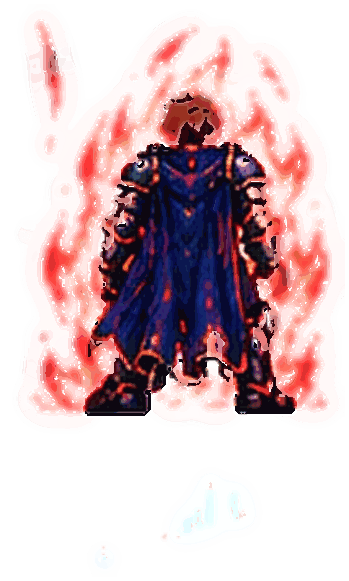
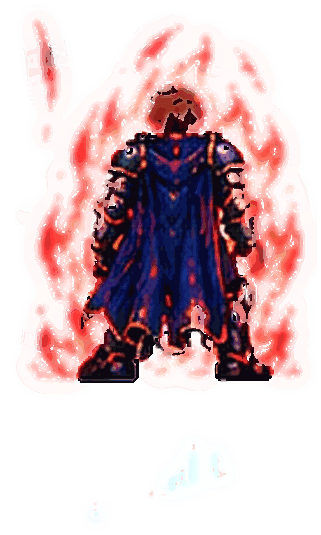
v77: poses do Berserk do Guerreiro padronizadas em tamanho
Claude-Session: https://claude.ai/code/session_01YFC38PcyDKAfPNhJ7r1cKG

diff --git a/sw.js b/sw.js
@@ -1,4 +1,4 @@
-const CACHE='bd1-rpg-v76';
+const CACHE='bd1-rpg-v77';
 const ASSETS=['./','./index.html','./game.html','./lobby.js','./lobby.css','./select_plate.webp','./char_mage.webp','./char_knight.webp','./char_tank.webp','./char_assassin.webp','./panel_mage.webp','./panel_knight.webp','./panel_tank.webp','./panel_assassin.webp','./style.css','./app.js','./anim.js','./mage.js','./cleric.js','./tank.js','./knight.js','./fxsoft.js','./knight/K1_1.png','./knight/K1_10.png','./knight/K1_11.png','./knight/K1_13.png','./knight/K1_14.png','./knight/K1_15.png','./knight/K1_19.png','./knight/K1_2.png','./knight/K1_20.png','./knight/K1_21.png','./knight/K1_22.png','./knight/K1_23.png','./knight/K1_24.png','./knight/K1_25.png','./knight/K1_26.png','./knight/K1_27.png','./knight/K1_28.png','./knight/K1_29.png','./knight/K1_30.png','./knight/K1_31.png','./knight/K1_32.png','./knight/K1_35.png','./knight/K1_37.png','./knight/K1_4.png','./knight/K1_41.png','./knight/K1_42.png','./knight/K1_44.png','./knight/K1_45.png','./knight/K1_46.png','./knight/K1_49.png','./knight/K1_5.png','./knight/K1_6.png','./knight/K1_7.png','./knight/K1_8.png','./knight/K1_9.png','./knight/K2_10.png','./knight/K2_11.png','./knight/K2_13.png','./knight/K2_14.png','./knight/K2_15.png','./knight/K2_16.png','./knight/K2_17.png','./knight/K2_18.png','./knight/K2_19.png','./knight/K2_2.png','./knight/K2_20.png','./knight/K2_21.png','./knight/K2_22.png','./knight/K2_23.png','./knight/K2_24.png','./knight/K2_25.png','./knight/K2_26.png','./knight/K2_28.png','./knight/K2_29.png','./knight/K2_3.png','./knight/K2_30.png','./knight/K2_32.png','./knight/K2_33.png','./knight/K2_34.png','./knight/K2_35.png','./knight/K2_37.png','./knight/K2_38.png','./knight/K2_39.png','./knight/K2_4.png','./knight/K2_41.png','./knight/K2_42.png','./knight/K2_43.png','./knight/K2_44.png','./knight/K2_45.png','./knight/K2_46.png','./knight/K2_5.png','./knight/K2_6.png','./knight/K2_7.png','./knight/K2_8.png','./knight/K2_9.png','./knight/K3_1.png','./knight/K3_10.png','./knight/K3_11.png','./knight/K3_12.png','./knight/K3_13.png','./knight/K3_14.png','./knight/K3_15.png','./knight/K3_16.png','./knight/K3_17.png','./knight/K3_18.png','./knight/K3_2.png','./knight/K3_20.png','./knight/K3_21.png','./knight/K3_22.png','./knight/K3_23.png','./knight/K3_24.png','./knight/K3_25.png','./knight/K3_26.png','./knight/K3_27.png','./knight/K3_28.png','./knight/K3_29.png','./knight/K3_3.png','./knight/K3_30.png','./knight/K3_31.png','./knight/K3_32.png','./knight/K3_33.png','./knight/K3_34.png','./knight/K3_35.png','./knight/K3_36.png','./knight/K3_37.png','./knight/K3_38.png','./knight/K3_39.png','./knight/K3_4.png','./knight/K3_40.png','./knight/K3_41.png','./knight/K3_42.png','./knight/K3_43.png','./knight/K3_44.png','./knight/K3_45.png','./knight/K3_46.png','./knight/K3_47.png','./knight/K3_48.png','./knight/K3_5.png','./knight/K3_6.png','./knight/K3_7.png','./knight/K3_8.png','./knight/K3_9.png','./knight/fx_ice.png','./knight/fx_rocksA.png','./knight/fx_rock1.png','./knight/fx_rock2.png','./knight/fx_rock3.png','./knight/fx_rock4.png','./knight/fx_slash.png','./knight/meta.json','./clr/at1.png','./clr/at2.png','./clr/at3.png','./clr/bg1.png','./clr/bg2.png','./clr/bg3.png','./clr/bg4.png','./clr/bp1.png','./clr/bp2.png','./clr/bp3.png','./clr/br1.png','./clr/br2.png','./clr/br3.png','./clr/br4.png','./clr/br5.png','./clr/br6.png','./clr/bt1.png','./clr/bt2.png','./clr/bt3.png','./clr/bt4.png','./clr/d1.png','./clr/d2.png','./clr/d3.png','./clr/d4.png','./clr/dg1.png','./clr/dg2.png','./clr/dg3.png','./clr/dn1.png','./clr/dn2.png','./clr/dn3.png','./clr/ds1.png','./clr/ex1.png','./clr/fx_aura.png','./clr/fx_burst.png','./clr/fx_cross1.png','./clr/fx_lotus.png','./clr/fx_pillar.png','./clr/fx_pillar2.png','./clr/fx_ring1.png','./clr/fx_ring2.png','./clr/fx_ring3.png','./clr/fx_star1.png','./clr/fx_star2.png','./clr/fx_star3.png','./clr/fx_star4.png','./clr/fx_streak1.png','./clr/fx_streak2.png','./clr/fx_streak3.png','./clr/fx_sunstar.png','./clr/hat1.png','./clr/hat2.png','./clr/idle1.png','./clr/meta.json','./clr/pr1.png','./clr/pr2.png','./clr/stf.png','./clr/ult1.png','./clr/ult2.png','./clr/v1.png','./clr/v2.png','./mage3/air.png','./mage3/atk1.png','./mage3/atk2.png','./mage3/atk3.png','./mage3/bh1.png','./mage3/bh2.png','./mage3/castdef.png','./mage3/defair.png','./mage3/defearth.png','./mage3/deffire.png','./mage3/defmana.png','./mage3/defwater.png','./mage3/dodge1.png','./mage3/dodge2.png','./mage3/dodge3.png','./mage3/dodge4.png','./mage3/earth.png','./mage3/fire.png','./mage3/fx_air_swirl.png','./mage3/fx_bh_big.png','./mage3/fx_bh_big2.png','./mage3/fx_bh_small.png','./mage3/fx_bh_spikes.png','./mage3/fx_bolt.png','./mage3/fx_comet.png','./mage3/fx_cross.png','./mage3/fx_crystal.png','./mage3/fx_earth_spikes.png','./mage3/fx_fire_fall.png','./mage3/fx_mana_aura.png','./mage3/fx_orb_blue.png','./mage3/fx_orb_orange.png','./mage3/fx_orb_red.png','./mage3/fx_orbb.png','./mage3/fx_ring_floor.png','./mage3/fx_rock.png','./mage3/fx_rocks.png','./mage3/fx_star_big.png','./mage3/fx_star_small.png','./mage3/fx_water_pillar.png','./mage3/fx_whirl.png','./mage3/idle1.png','./mage3/idle2.png','./mage3/idle3.png','./mage3/idle4.png','./mage3/meta.json','./mage3/spin1.png','./mage3/spinwide.png','./mage3/stars.png','./mage3/swingf.png','./mage3/swingl.png','./mage3/swingr.png','./mage3/water.png','./anim/manifest.json','./spr_mage.webp','./spr_knight.webp','./spr_tank.webp','./spr_assassin.webp','./spr_boss.webp','./game_clean.png','./game_nohud.png','./hud_mage.png','./hud_knight.png','./hud_tank.png','./hud_assassin.png','./question_panel.png','./icon_attack.png','./icon_coin.png','./manifest.webmanifest','./potion_hp.png','./potion_mana.png','./tank/a_bub.png','./tank/a_cr.png','./tank/a_dust.png','./tank/a_hh.png','./tank/a_i1.png','./tank/a_i2.png','./tank/a_lo.png','./tank/a_rd.png','./tank/a_rl1.png','./tank/a_rl2.png','./tank/a_s1.png','./tank/a_s2.png','./tank/a_sw.png','./tank/a_swl.png','./tank/d_a1.png','./tank/d_a2.png','./tank/d_a3.png','./tank/d_a4.png','./tank/d_e1.png','./tank/d_e2.png','./tank/d_e3.png','./tank/d_e4.png','./tank/d_f1.png','./tank/d_f2.png','./tank/d_f3.png','./tank/d_h1.png','./tank/d_h2.png','./tank/d_h3.png','./tank/d_h4.png','./tank/d_i1.png','./tank/d_i2.png','./tank/d_i3.png','./tank/d_m1.png','./tank/d_m2.png','./tank/d_m3.png','./tank/d_m4.png','./tank/d_p1.png','./tank/d_p3.png','./tank/d_u1.png','./tank/d_u2.png','./tank/fx_bring.png','./tank/fx_bspike.png','./tank/fx_earth.png','./tank/fx_rockburst.png','./tank/meta.json','./tank/n1.png','./tank/n2.png','./tank/n3.png','./tank/p1.png','./tank/tA.png','./tank/tB.png','./tank/tC.png','./tank/v1.png','./tank/v2.png','./tank/v3.png','./tank/v4.png'];
 // Tudo em cache (abre instantâneo, até offline). Em segundo plano o SW confere a rede (requisição condicional, barata);
 // se algum arquivo mudou, atualiza o cache e avisa a página, que recarrega sozinha (menu) ou mostra o aviso (jogo).

diff --git a/tools/cut_knight.py b/tools/cut_knight.py
@@ -71,8 +71,11 @@ SHEETFIX = {'K1': 1.0, 'K2': 1.03, 'K3': 1.10}
 POSEFIX = {'K3_12':1.35,'K3_13':1.15,'K3_14':1.25,'K3_15':1.10,'K3_16':1.10,'K3_17':1.08,'K3_18':1.12,'K3_39':1.16,'K3_40':1.14,'K3_41':1.2,'K3_42':1.2,'K3_43':1.05,
  'K3_3':1.12,'K3_4':1.12,'K3_5':1.12,'K1_13':1.2,'K1_14':1.25,'K1_15':1.02,'K1_32':1.15,'K1_35':1.15,'K2_13':1.1,'K2_16':1.12,'K2_17':1.05,'K2_18':1.05,'K2_19':1.06,
  'K2_44':1.05,'K1_44':1.03,'K1_45':1.05,'K2_38':1.16,'K2_39':1.16,'K2_3':1.04,'K2_4':1.04,'K2_5':1.04}
+# poses do BERSERK/aura: ajuste fino pela altura visível (cabelo→pés) comparada à idle (~290)
+BFIX = {'K1_27':0.92,'K1_26':0.966,'K1_30':0.927,'K1_29':1.04,'K2_32':1.082,'K2_37':1.07,'K2_33':1.08,'K2_35':1.166,'K2_25':1.188,'K3_26':1.03,'K3_24':1.06,'K3_25':1.124,
+ 'K3_28':1.06,'K3_27':1.144,'K1_24':1.03,'K1_28':1.05,'K1_25':1.144,'K2_23':1.21,'K2_24':1.134,'K2_28':1.144,'K2_26':1.166}
 def mult(name, core, REFS):
-    return _mult(name, core, REFS) * POSEFIX.get(name, SHEETFIX[name.split('_')[0]])
+    return _mult(name, core, REFS) * POSEFIX.get(name, SHEETFIX[name.split('_')[0]]) * BFIX.get(name, 1.0)
 def _mult(name, core, REFS):
     sh = name.split('_')[0]; rh, ra = REFS[sh]; ys = np.where(core.any(1))[0]; h = ys.max() - ys.min() + 1
     if name in ROLL: return float(np.clip(np.sqrt(1.25 * ra / max(core.sum(), 1)), 1.0, 2.3))

diff --git a/README.md b/README.md
@@ -302,3 +302,6 @@ Guerreiro: poses de esquiva/agachado ampliadas (escala pela área do corpo).
 
 ## v76
 Guerreiro: poses de esquiva/agachado em escala igual à do corpo em pé (área do corpo ×1.25).
+
+## v77
+Guerreiro: poses do Berserk/ult padronizadas pela altura visível (cabelo→pés), conferidas lado a lado com a idle.
